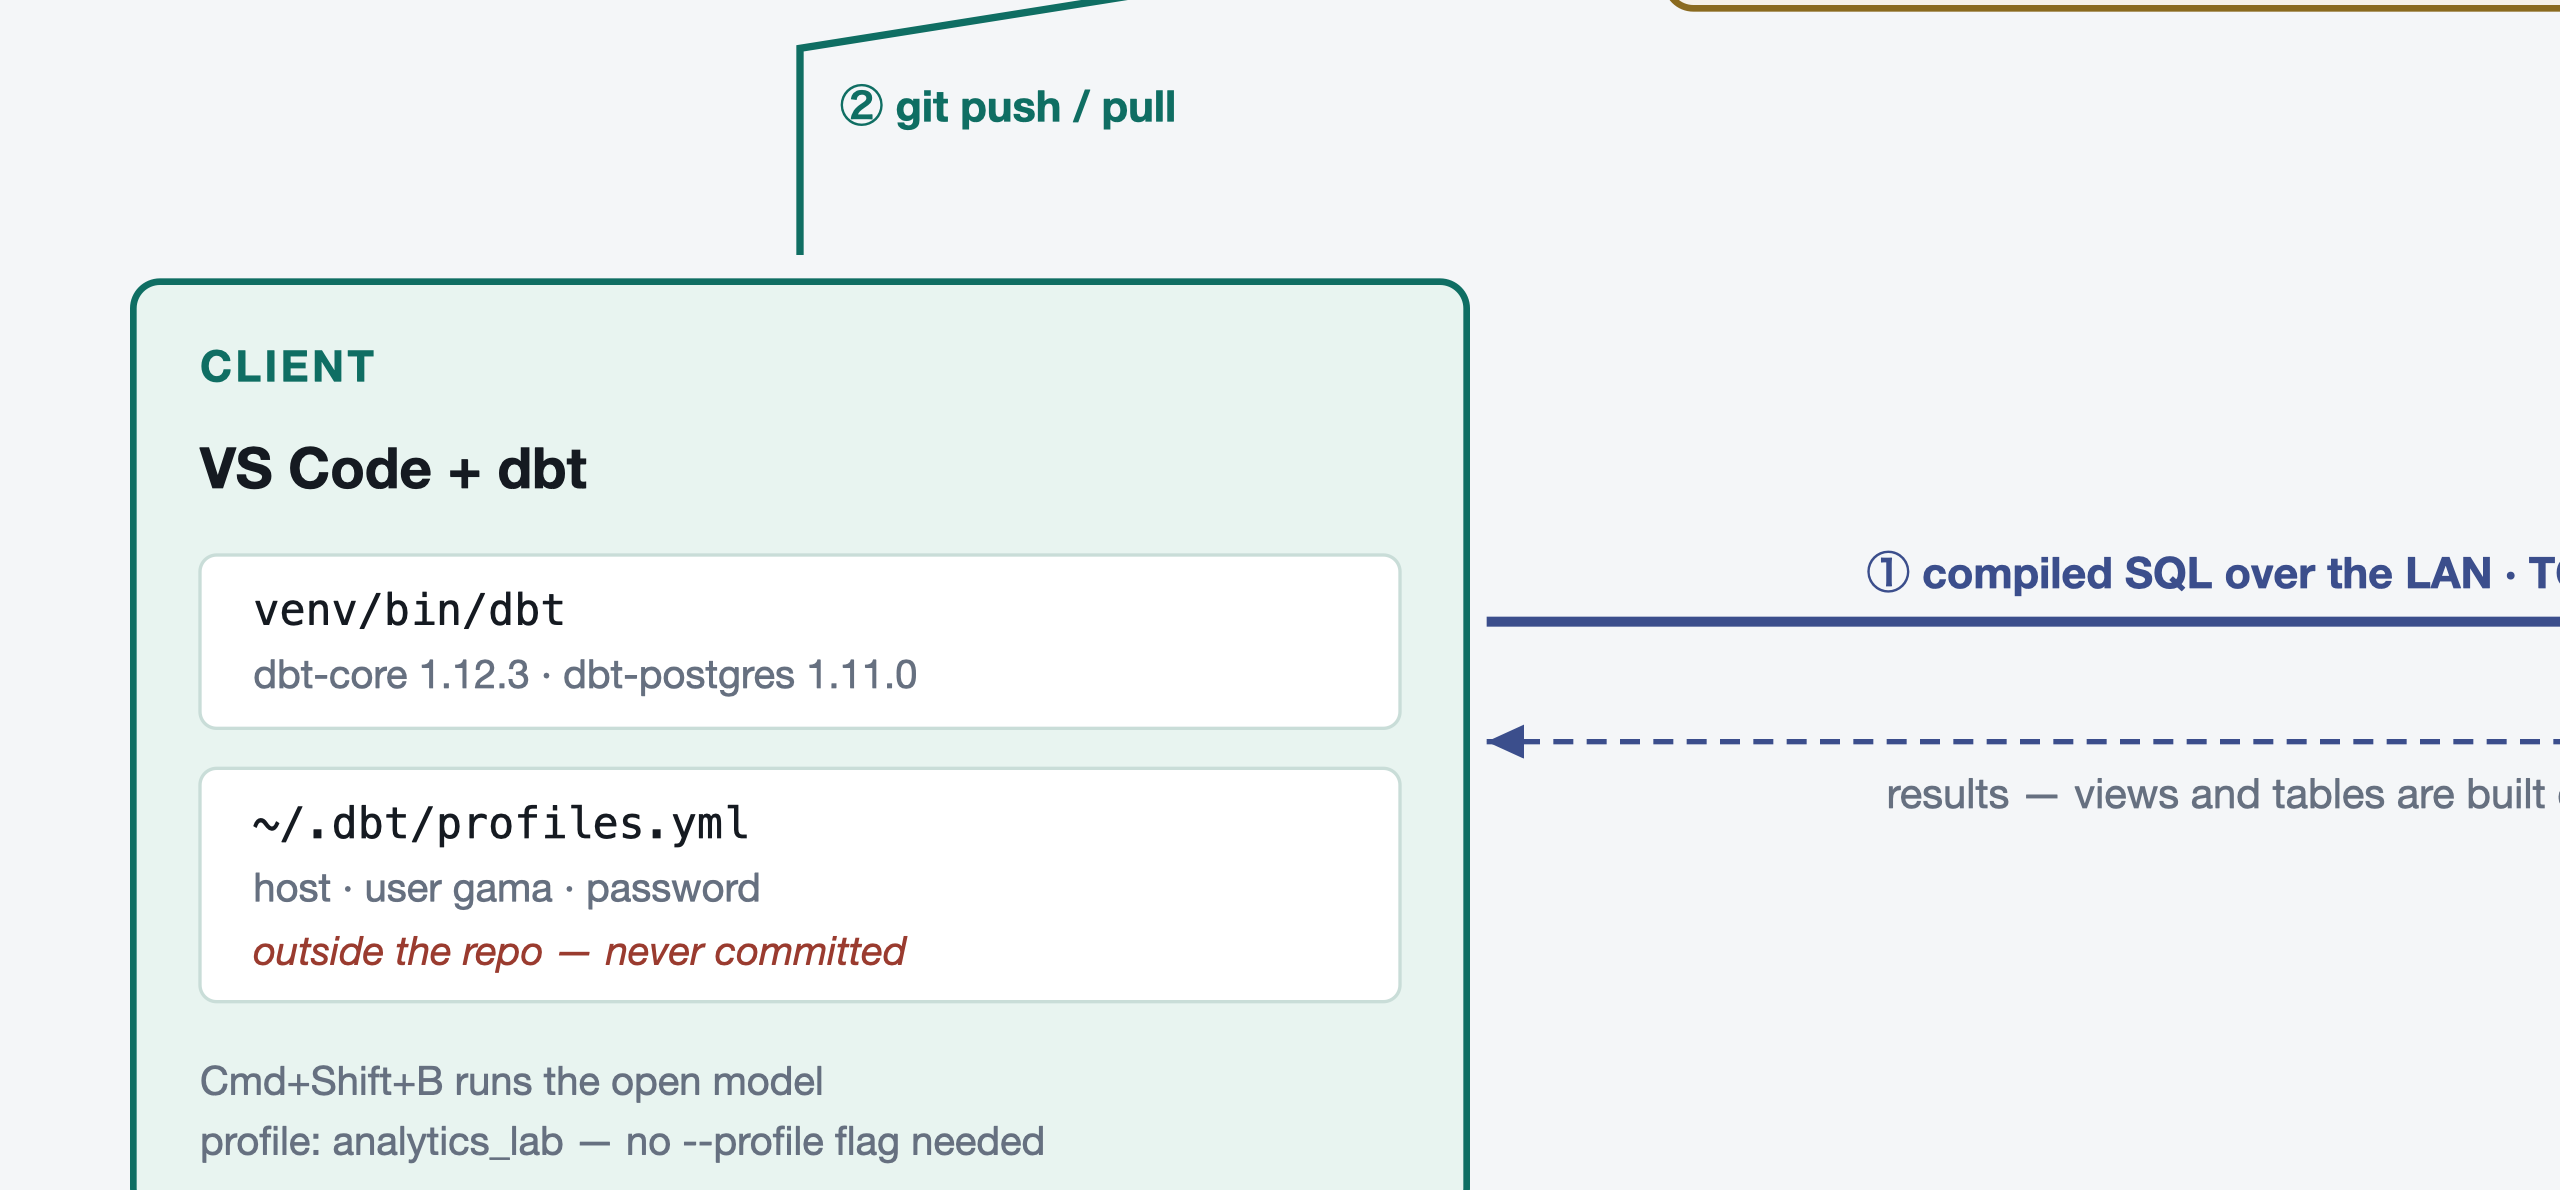
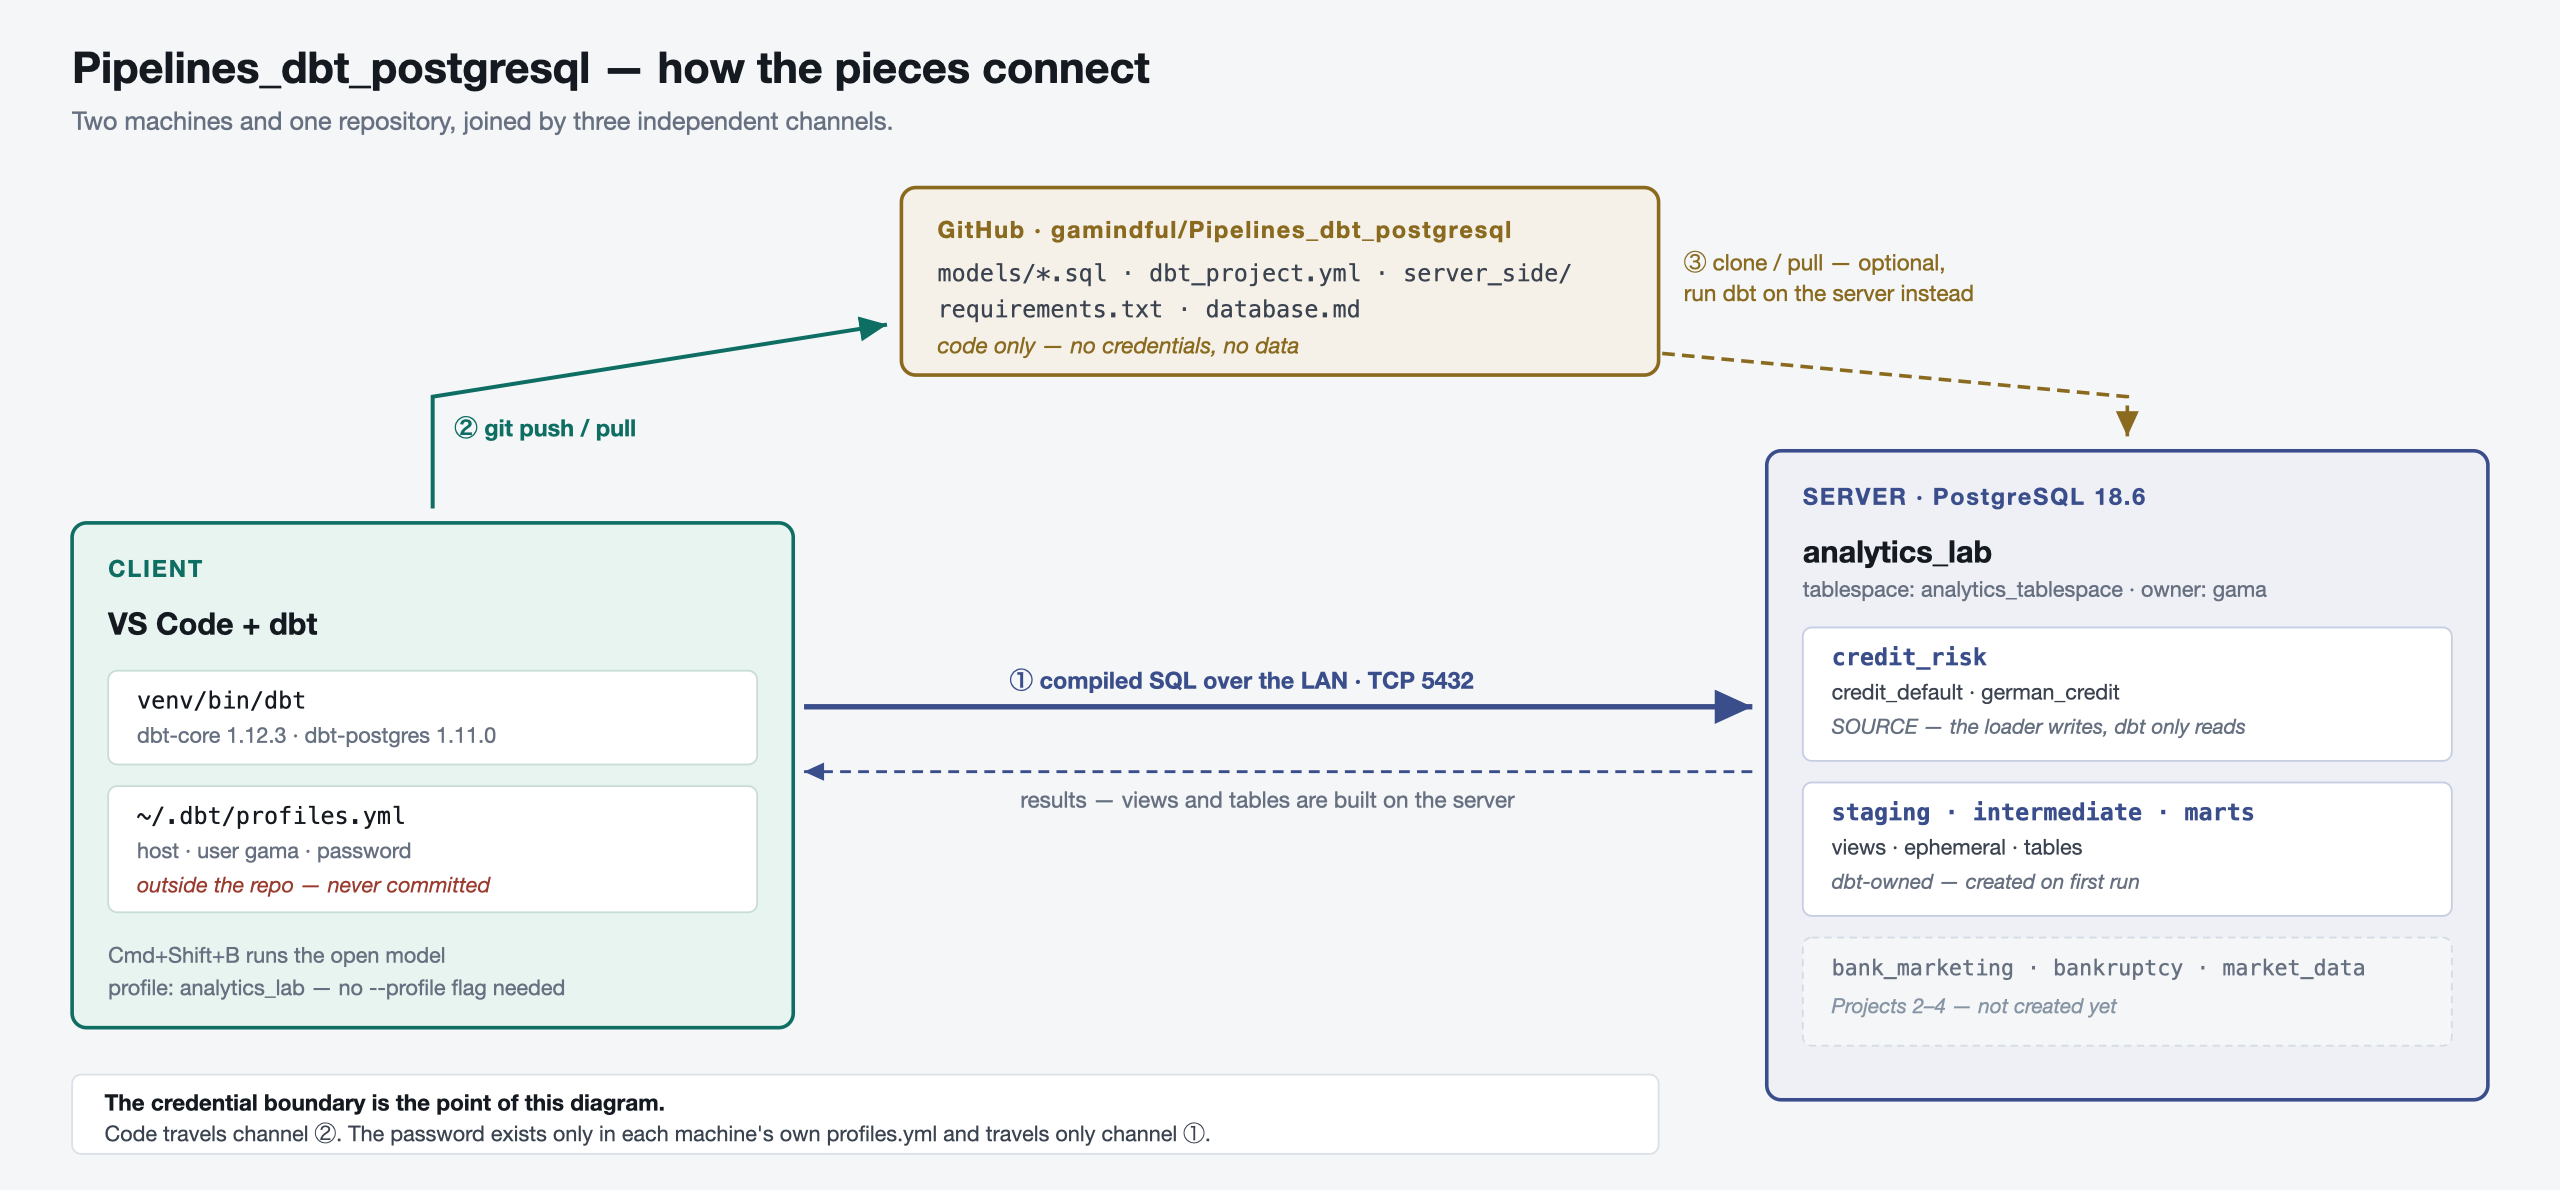
Process updated

diff --git a/README.md b/README.md
@@ -89,6 +89,88 @@ dbt build --select credit_risk_marts
 
 Full build steps are in [database.md](database.md).
 
+## Server configuration
+
+Still true today, independent of which database exists. Set once per machine;
+the historical log further down records how each piece was arrived at.
+
+**Four conditions must all hold for the server to accept LAN connections.** A
+failure in any one looks identical from the client — a connection that hangs
+until timeout.
+
+| # | Condition | Where |
+|---|---|---|
+| 1 | `listen_addresses = '*'` | `postgresql.conf` — default is `localhost` only |
+| 2 | a rule covering the LAN, database and role | `pg_hba.conf` |
+| 3 | inbound TCP 5432 allowed | Windows Firewall |
+| 4 | network profile is **Private**, not Public | `Get-NetConnectionProfile` |
+
+`listen_addresses` is `postmaster`-context, so it needs a **restart**, not a
+reload:
+
+```powershell
+New-NetFirewallRule -DisplayName "PostgreSQL 5432" -Direction Inbound `
+  -Protocol TCP -LocalPort 5432 -Action Allow
+Restart-Service postgresql-x64-18
+```
+
+Scope `pg_hba.conf` to the specific database and role rather than leaving the
+whole cluster open:
+
+```
+# TYPE  DATABASE       USER   ADDRESS           METHOD
+host    analytics_lab  gama   192.168.1.0/24    scram-sha-256
+```
+
+Inspect the live configuration:
+
+```powershell
+Get-Service -Name "postgresql*"
+Select-String -Path "C:\Program Files\PostgreSQL\18\data\postgresql.conf" -Pattern "^listen_addresses|^port"
+Get-Content "C:\Program Files\PostgreSQL\18\data\pg_hba.conf" | Select-String -Pattern "^[^#]"
+ipconfig | findstr /i "IPv4"
+```
+
+> **Use the LAN address, never a WSL one.** `172.19.128.1` is the WSL2 gateway
+> — it reaches the Windows host only from *inside* a WSL VM. From any other
+> machine it is unroutable, and connections hang for the full timeout instead
+> of failing fast. Take the `192.168.1.x` value from `ipconfig`.
+
+> **Make errors readable.** The server runs `lc_messages = Spanish_Mexico.1252`,
+> so failures arrive containing `«»` guillemets (`0xAB`/`0xBB`) — invalid UTF-8.
+> psycopg2 assumes UTF-8 and raises `'utf-8' codec can't decode byte 0xab`,
+> destroying the real message. `ALTER SYSTEM SET lc_messages = 'C';` followed by
+> `SELECT pg_reload_conf();` ends this permanently, and changes message text
+> only — not data, encoding or collation.
+
+**Two paths that are easy to confuse.** The service's real `PGDATA` is
+`C:\Program Files\PostgreSQL\18\data`, created by the EDB installer and not
+managed by hand. The `...\postgres_local_server\pgdata\` folder is only a
+tablespace target you create yourself — and it must **not** sit inside the real
+data directory, which Postgres refuses.
+
+## Client connection
+
+Three files, and only one of them holds a secret:
+
+| File | Holds | Committed? |
+|---|---|---|
+| `~/.dbt/profiles.yml` | host, user `gama`, password, `dbname: analytics_lab` | **never** |
+| `dbt_project.yml` | `profile: 'analytics_lab'` — a *name*, no address | yes |
+| `profiles.example.yml` | the shape, with no values | yes |
+
+That split is the entire reason this repo is safe to publish. Verify the chain
+end to end with:
+
+```bash
+./venv/bin/dbt debug
+```
+
+Reading a failure: **`timeout expired`** means wrong address or firewall,
+**`connection refused`** means the host was reached but Postgres is not
+listening there, **`Host is down`** means the machine is off or asleep, and an
+**authentication error** means networking is already solved.
+
 ### The three channels
 
 **① Client → Server — LAN, TCP 5432.** dbt compiles the `.sql` files into real
@@ -502,15 +584,15 @@ machine is off or asleep. `auth error` = networking already solved.
 </details>
 
 <details>
-<summary><b>Step 4 — Create the database</b></summary>
+<summary><b>Step 4 — Create the database, and the codec trap that hid why it failed</b></summary>
+
+> The database created here was `local`, long since dropped. **Current build
+> steps are in [database.md](database.md).** The lesson below is permanent and
+> applies to every error this server returns.
 
 `dbt debug` reported a UTF-8 codec crash rather than a useful message. The real
 error, once decoded, was `no existe la base de datos «local»` — the database
 simply did not exist.
-
-```powershell
-& "C:\Program Files\PostgreSQL\18\bin\psql.exe" -U postgres -c 'CREATE DATABASE "local";'
-```
 
 **Why the error was unreadable:** the server runs
 `lc_messages = Spanish_Mexico.1252`. Its error text contains `«»` guillemets
@@ -540,18 +622,22 @@ This file lives **outside the repository**. That is the entire reason this
 project is safe to publish: the models, config and tasks are committed; the
 host and password are not.
 
+> The profile shown when this was written pointed at the `local` database.
+> **The current profile is `analytics_lab` — see [database.md](database.md),
+> Step 8.** The principle below has not changed.
+
 ```yaml
-pipelines_dbt_postgresql:
+analytics_lab:
   target: dev
   outputs:
     dev:
       type: postgres
       host: IP_Address
       port: 5432
-      user: postgres
+      user: gama
       pass: '...'
-      dbname: local
-      schema: public
+      dbname: analytics_lab
+      schema: staging
       threads: 4
       connect_timeout: 5      # fail in 5s instead of 20 while debugging
 ```
